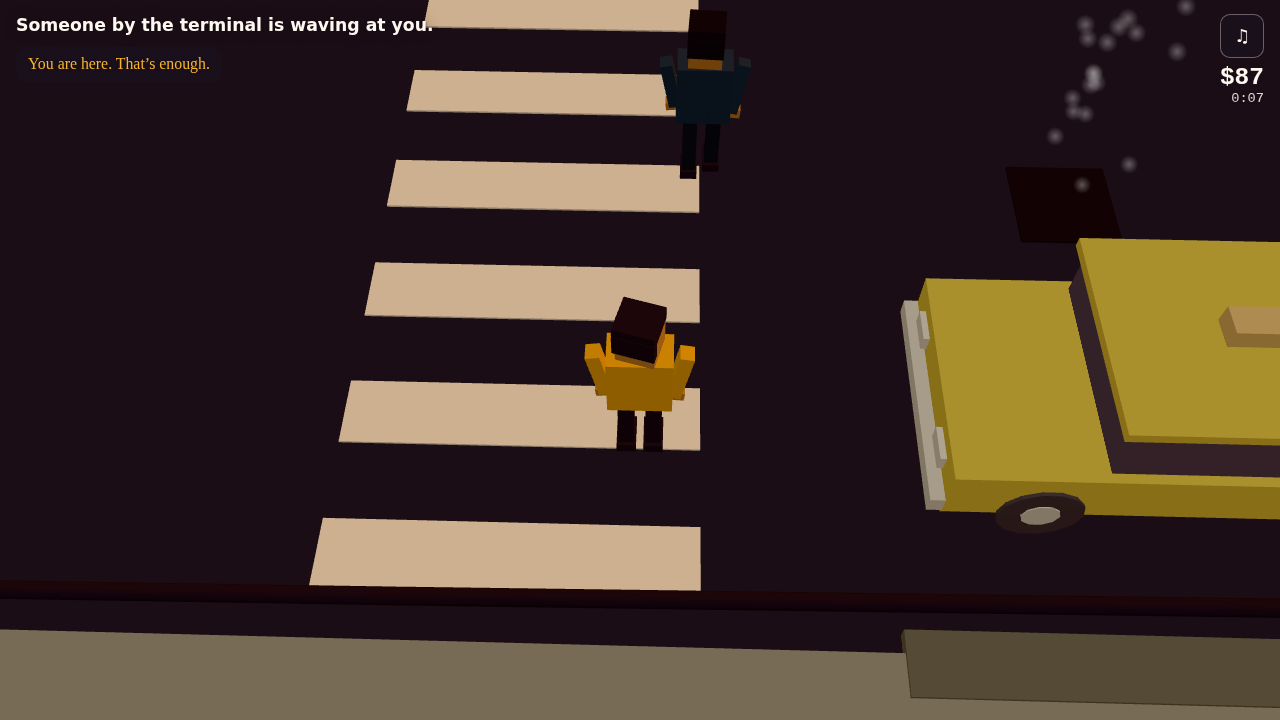
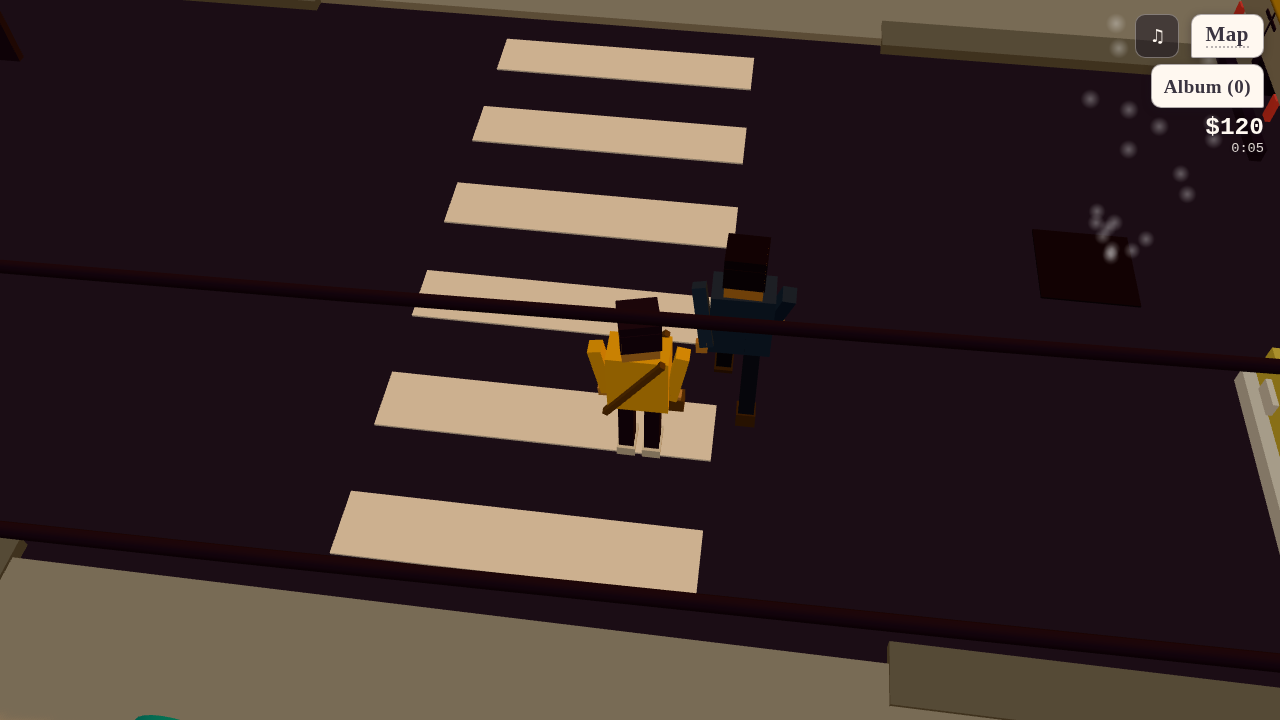
evidence(d3,d4): the frames dress like the day they depict (docs/51 B12 items 1-2)
visual-d3 was the last Day-1-HUD offender: the Day-3 morning block now
stages $111/$111 and the dusk postcard $120 — the tests' own
day2Done/day3Done law — with objectiveText() riding each staged step.
The kid-on-stool frame also gets its subject back: the follow boom framed
an empty street, so the shot parks the camera on the cart corner.

visual-d4's greeting pose was a top-down census (two small figures on
blank planes); the parked low three-quarter north of the M121 shell puts
the pair in the middle third — and the first parked pose stood INSIDE the
bus, which the curb bake made visible again. She meets his eye now.

Re-shot and eyeballed: $111 kid-on-stool, $120 three-windows dusk,
greeting with head-room and her profile. Item 3 (CLEAR prop pass) stays
open.

diff --git a/docs/51-open-bugs-for-agents.md b/docs/51-open-bugs-for-agents.md
@@ -360,15 +360,23 @@ Doc 02 / Doc 07 / Doc 50 that still need closing so the emotional beats land.
 ### B12. Visual-audit follow-ups (Doc 31)
 - Day-4 greeting frame is the weakest: figures too small, composition spends
   pixels on blank wall/asphalt. Raise/tilt camera so the two figures own the
-  middle third.
+  middle third. — **FIXED 2026-11-04** (visual-d4 shot 2: parked low
+  three-quarter north of the M121 shell — the first parked pose stood inside
+  it; the pair owns the middle third, she meets his eye, the bus + tree +
+  newsbox carry the rest).
 - Multiple evidence frames still show staged Day-1 HUD ($87, Day-1 objective)
   while depicting Day-3/4 moments — fix probe/save staging for evidence shots.
+  — **FIXED 2026-11-04** (visual-d3 was the last offender: the Day-3 morning
+  block stages $111/$111 and the dusk postcard $120 — the tests' own
+  day2Done/day3Done law — with objectiveText() riding each staged step;
+  re-shot and eyeballed: $111 on the kid-on-stool chip, $120 on the
+  three-windows dusk).
 - Minor CLEAR items: floating AC units, lamp poles without bases, clipped
   signs, antenna prop, door scale on teal door, etc. Fix only after one
   in-engine look (Anti-Slop gate).
 - **Where:** evidence frame probes, camera framing for Day-4 greeting,
   prop placement.
-- **Status:** OPEN — polish / evidence hygiene.
+- **Status:** OPEN — item 3 (the CLEAR prop pass) remains; items 1–2 fixed.
 
 ### B13. Performance ledger still over ideal on full-street views
 - Doc 07 target “<150 typical street scene” is not met for plaza-wide rigs
